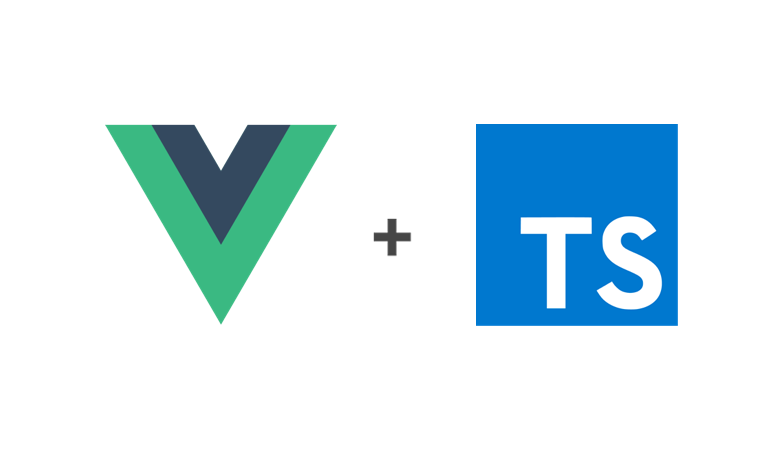
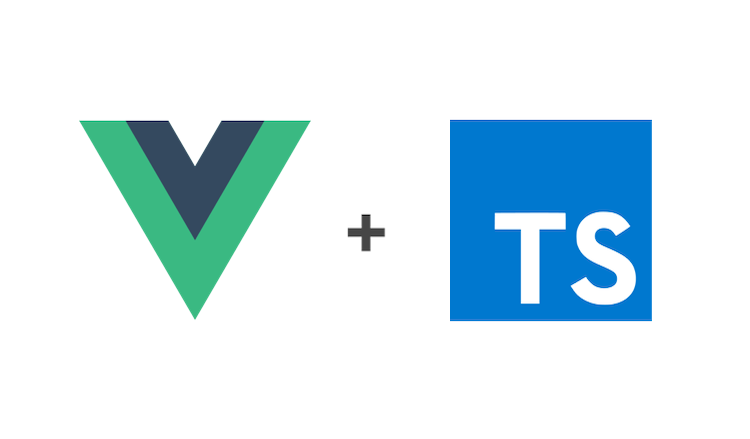
Updated header image, added smaller image and removed unnecessary spacing

Changed region(s): [[0.092, 0.2665, 0.4293, 0.7403], [0.5827, 0.2665, 0.8893, 0.7403], [0.46, 0.4738, 0.5213, 0.5923]]

diff --git a/_posts/2019-02-18-vue-with-typescript.md b/_posts/2019-02-18-vue-with-typescript.md
@@ -4,12 +4,12 @@ authors: [elke_heymans]
 outbound: [tech_blog_vue-with-typescript]
 title: 'Vue with TypeScript'
 image: /img/vue-with-typescript/vue-plus-typescript.png
-tags: [Vue,TypeScript,JavaScript,VueJS,]
+tags: [Vue,TypeScript,JavaScript,VueJS,VueCLI]
 category: Vue
 comments: true
 ---
 
-# Table of content
+# Table of contents
 1. [Vue with TypeScript, an introduction](#introduction)
 2. [Creating a Vue project with TypeScript](#creating-a-vue-project-with-typescript)
 3. [A look into the files created by the Vue CLI](#a-look-into-the-files-created-by-the-vue-cli)
@@ -19,10 +19,10 @@ comments: true
 7. [Conclusion](#conclusion)
 8. [Resources and further reading](#resources-and-further-reading)
 
-# Introduction
+# Vue with TypeScript, an introduction
 With the release of the Vue CLI 3 in August 2018, Vue now officially supports development in TypeScript.
 In September 2018, Evan You even announced that [the next version of Vue will be rewritten in TypeScript](https://medium.com/the-vue-point/plans-for-the-next-iteration-of-vue-js-777ffea6fabf){:target="_blank" rel="noopener noreferrer"}.
-This does not yet mean that you're forced to use TypeScript, it will still be optional.
+This does not yet mean that you are forced to use TypeScript, it will still be optional.
 TypeScript has numerous advantages such as static typing, transpiling of the latest ECMAScript features to older versions to support older browsers and much more.
 Especially the static typing is a very interesting feature for projects in a professional environment as it helps define more strict interfaces and provides documentation on how to use other developers their code.
 
@@ -31,13 +31,12 @@ Our little project will be called *wordvue*.
 At the same time we will explain some tips and tricks and background information about Vue with TypeScript so that you fully understand what the purpose is of everything.
 
 <div style="text-align: center;">
-  <img src="/img/vue-with-typescript/vue-plus-typescript.png" width="100%" height="100%">
+  <img src="/img/vue-with-typescript/vue-plus-typescript-small.png" class="image">
 </div>
 
 # Creating a Vue project with TypeScript
 
 ## Using the Vue CLI
-
 Thanks to the Vue CLI, it is very easy to create a new Vue project.
 First make sure you have the lastest version of the CLI installed with NPM:
 
@@ -58,7 +57,6 @@ The CLI knows some presets but we will go through the manual mode to be sure we 
 </div>
 
 ### Babel + TypeScript
-
 <div style="text-align: center;">
   <img src="/img/vue-with-typescript/vue-cli-2-selected-features.png" class="image right fit">
 </div>
@@ -69,7 +67,6 @@ Just make sure you at least have Babel selected as well.
 Babel will automatically add multiple polyfills and will help with having backwards compatibility of newer ECMAScript features. 
 
 ### Class-style component syntax
-
 <div style="text-align: center;">
   <img src="/img/vue-with-typescript/vue-cli-3-class-style-component-syntax.png" class="image fit">
 </div>
@@ -78,7 +75,7 @@ In the next screen we will get the question if we want class-style component syn
 With this, we actually install the decorators that can be found in the Vue Class Component package.
 If you do not use the class-style component syntax, your components will look just like in JavaScript Vue but with the addition of types:
 
-```vue
+```typescript
 import Vue, { VNode } from 'vue'
 
 export const HelloComponent = Vue.extend({
@@ -106,7 +103,7 @@ export const HelloComponent = Vue.extend({
 As you can see, you'll still have the data function, the methods and computed properties and the render function that you can use in regular Vue.
 With the class-style component syntax, we would write the same component like this:
 
-```vue
+```typescript
 import Vue from 'vue'
 import Component from 'vue-class-component'
 
@@ -127,7 +124,6 @@ export default class HelloComponent extends Vue {
 When you compare it to the previous version, the data property message is now a regular property in our component class. Methods are present as class methods. And the computed properties can be defined as a getter.
 
 ### The other setttings
-
 After you've replied Yes to the "Use class-style component syntax?" question, you can continue with the default options that are self explanatory.
 
 <div style="text-align: center;">
@@ -155,7 +151,6 @@ Vue will then be creating the project so you will see some logging going on in y
 The Vue CLI will create a Git repository, perform an NPM install and generate a README alongside a bunch of files and folders.
 
 ## Launching your first Vue project
-
 After the Vue CLI has created your Vue project, you can launch it with:
 
 ```text
@@ -174,11 +169,9 @@ By default it runs on http://localhost:8080 but if there's already something run
 </div>
 
 # A look into the files created by the Vue CLI
-
 The main folders in which you will work are public and src. We will look at these more in detail so you fully understand what their purpose is.
 
 ## Public
-
 Public is meant for static stuff like images, favicons and more.
 It also contains your index.html which is very basic:
 
@@ -212,7 +205,6 @@ This should always be present in your index.html as this is the tag on which Vue
 ## Src
 
 ### main.ts
-
 ```typescript
 import Vue from 'vue';
 import App from './App.vue';
@@ -288,7 +280,6 @@ Vue does officially support specific NPM packages for these core functionalities
 Other packages will follow the same naming conventions as the official supported libraries for convenience sake.
 
 ### App.vue
-
 ```vue
 <template>
 	<div id="app">
@@ -366,12 +357,10 @@ Vue.component('font-awesome-icon', FontAwesomeIcon);
 After this we can access the font-awesome-icon tag from everywhere.
 
 # How to write your first component
-
 We will keep the project as simple as possible for now.
 Firstly I will explain the basics of a Vue Component so that you'll fully understand what happens when we write our first real component.
 
 ## The structure of a .vue file
-
 ```vue
 <template>
 	<div id="app">
@@ -403,7 +392,6 @@ In a .vue file, we define 3 optional tags: template, script and style.
 According to the Vue documentation, you should always [order the tags consistently](https://vuejs.org/v2/style-guide/#Single-file-component-top-level-element-order-recommended){:target="_blank" rel="noopener noreferrer"} with style being the last one.
 
 ### \<template>...\</template>
-
 This is the visual part of your component, in here you define the HTML that will be used to display your component.
 Note that your custom HTML should *always* be surrounded by a div tag.
 The reason for this is that it allows Vue to encapsulate your custom CSS and other stuff into that without unknowingly affecting the styling of your whole site.
@@ -411,7 +399,6 @@ You can use this to add a custom id or class to the tag to help you identify the
 Note that a .vue file can contain at most one template tag.
 
 ### \<script lang="ts">...\</script>
-
 In the script tag, you can add your custom TypeScript code.
 The lang attribute is not required but if you do not add it, the default language will be JavaScript.
 In order for TypeScript to be available, we should add *lang="ts"*.
@@ -419,7 +406,6 @@ All of our TypeScript code should be present in this script tag, even the import
 Note that a .vue file can contain at most one template tag.
 
 ### \<style>...\</style>
-
 In here we can define our own CSS specific for this component.
 By default, all the styles you define are global.
 By adding the scoped attribute, our custom CSS will be specific for that component.
@@ -452,7 +438,6 @@ A .vue file can contain more than one style tag.
 ```
 
 ### Should you put everything in a .vue file?
-
 For small components, a .vue file will be very interesting as you have all the elements that make up your component into one specific file.
 But what if you have for example lots of lines in the template tag?
 Or what if you just want to split up the file?
@@ -475,7 +460,6 @@ The Vue CLI will generate the same compiled code.
 ## How to organise your files
 
 ### The basic structure
-
 The basic project structure in Vue is very simple:
 
 ```text
@@ -492,7 +476,6 @@ For example a global stylesheet or an icon library that you want to treeshake fi
 In the public folder we put all things static: the logo, the favicons, images, ...
 
 ### A more advanced structure
-
 The basic structure is enough for a simple single page application.
 But once you start to have complex pages, things will quickly need to be changed to accommodate the amounts of files that you will create.
 A more advanced project structure could be this:
@@ -518,13 +501,11 @@ This is what you would put in a SharedModule in Angular for example.
 Same goes for the /store that contains my implementation of a store.
 
 ### Modules
-
 Vue is designed to be as lightweight as possible and this can be seen in how the basic project is structured: no modules are present.
 Vue does support modules but those are not like we know them from other frameworks like Angular.
 Vue modules are simply ES6 modules.
 
 ## BlogPost component
-
 Our first component we will write is a BlogPost component.
 In a first stage of our little project we will just hardcode a blogpost.
 The BlogPost component is super simple:
@@ -587,7 +568,6 @@ We can pass along a type attribute in the Props decorator but even that is not t
 We end the component with our styling in which we make use of SASS to nest all our styling.
 
 ## Using the BlogPost component
-
 So we have created the BlogPost component but how are we going to actually use it?
 We adapt App.vue to this:
 
@@ -677,7 +657,6 @@ We see in our browser:
 Great, you've written your first working component!
 
 # Using your first plugin
-
 Vue comes without any libraries, it is a super clean and lean framework where even functionality for HTTP calls is not present.
 However, every component is a Vue object and can be extended with a \$http member that you can utilise in your code to perform HTTP calls.
 But to provide this \$http member, we have to add the correct plugin to our code.
@@ -685,7 +664,6 @@ In the awesome-vue project on GitHub, we can find an [extensive list of HTTP plu
 We will use [axios](https://github.com/axios/axios){:target="_blank" rel="noopener noreferrer"} as our HTTP library but we will use [vue-axios](https://github.com/imcvampire/vue-axios){:target="_blank" rel="noopener noreferrer"} for the bindings with Vue in TypeScript as axios does not provide the necessary typings for axios in Vue.
 
 ## Installing a plugin
-
 We follow the installation instructions for vue-axios which are pretty straightforward:
 
 ```text
@@ -716,7 +694,6 @@ new Vue({
 The important part is that we put the Vue.use(...) statement before we actually bootstrap the application with new Vue(...).
 
 ## The effect of adding a plugin
-
 So we have added a plugin, but what does that actually mean?
 What is the effect on our Vue code?
 The main effect is that we now have \$http accessible in every Vue object and component.
@@ -728,7 +705,6 @@ This is more by community standards as it is not obliged by Vue to provide the s
 But it makes sense for library creators to comply to the standard set by the HTTP library of preference as chosen by Vue, in this case axios.
 
 ## Using the axios plugin for performing HTTP calls
-
 A Vue component has multiple lifecycle hooks with the most interesting ones for what we want to do: mounted and created.
 Created is called by Vue when the object is created: reactive data is set up, event callbacks are ready and so on.
 The Vue object will thus be ready to go but it will not yet be visible to the user.
@@ -774,7 +750,6 @@ As you can see we have added a private created method since this should not be p
 We simply call an API and map the response into our Post array.
 
 ## How we have set up a local API
-
 To simulate a real API call, we set up [json-server](https://github.com/typicode/json-server){:target="_blank" rel="noopener noreferrer"}, a small tool that launches a web server with a REST API that serves a json file present in our assets folder:
 
 ```json
@@ -811,7 +786,6 @@ $ json-server src/assets/db.json
 # Your first deployment
 
 ## Development versus production mode
-
 Just like in other frontend frameworks, Vue has its development mode and production mode. The first one is available with:
 
 ```text
@@ -860,7 +834,6 @@ module.exports = {
 More configurations can be found at [cli.vuejs.org](https://cli.vuejs.org/config/){:target="_blank" rel="noopener noreferrer"} but most of the configuration is already done for a maximum optimised production build.
 
 ## Building for production
-
 When running the npm run build command, you'll get the following output:
 
 <div style="text-align: center;">
@@ -874,7 +847,6 @@ If you were to have any assets, it will also copypaste those into the dist folde
 The result is a dist folder which contents you can directly deploy onto your favourite server.
 
 # Conclusion
-
 Congratulations, you have built your very first Vue application with TypeScript!
 You now know how to write a basic component with the use of decorators, create a component structure and fill it with data coming from an API.
 After that you can also deploy it onto a server.
@@ -883,6 +855,11 @@ Vue is a lightweight framework that primarily focuses on visualisation.
 If you want to add more functionality, you will have to resort to plugins which either support Vue integration directly or you can use a plugin like vue-axios that will facilitate the integration of another library like axios.
 
 # Resources and further reading
-* Vue CLI website: [cli.vuejs.org](https://cli.vuejs.org/){:target="_blank" rel="noopener noreferrer"}
+* Vue CLI: [cli.vuejs.org](https://cli.vuejs.org/){:target="_blank" rel="noopener noreferrer"}
+* Awesome-vue, overview of Vue plugins: [github.com/vuejs/awesome-vue](https://github.com/vuejs/awesome-vue){:target="_blank" rel="noopener noreferrer"}
+* Axios, HTTP library: [github.com/axios/axios](https://github.com/axios/axios-vue){:target="_blank" rel="noopener noreferrer"}
+* Vue-axios, typings for using Axios in Vue: [github.com/imcvampire/vue-axios](https://github.com/imcvampire/vue-axios){:target="_blank" rel="noopener noreferrer"}
+* Vue styleguide: [vuejs.org/v2/style-guide](https://vuejs.org/v2/style-guide/){:target="_blank" rel="noopener noreferrer"}
+* Vue-class-component: [github.com/vuejs/vue-class-component](https://github.com/vuejs/vue-class-component){:target="_blank" rel="noopener noreferrer"} 
+* JSON server: [github.com/typicode/json-server](https://github.com/typicode/json-server){:target="_blank" rel="noopener noreferrer"} 
 
- 
